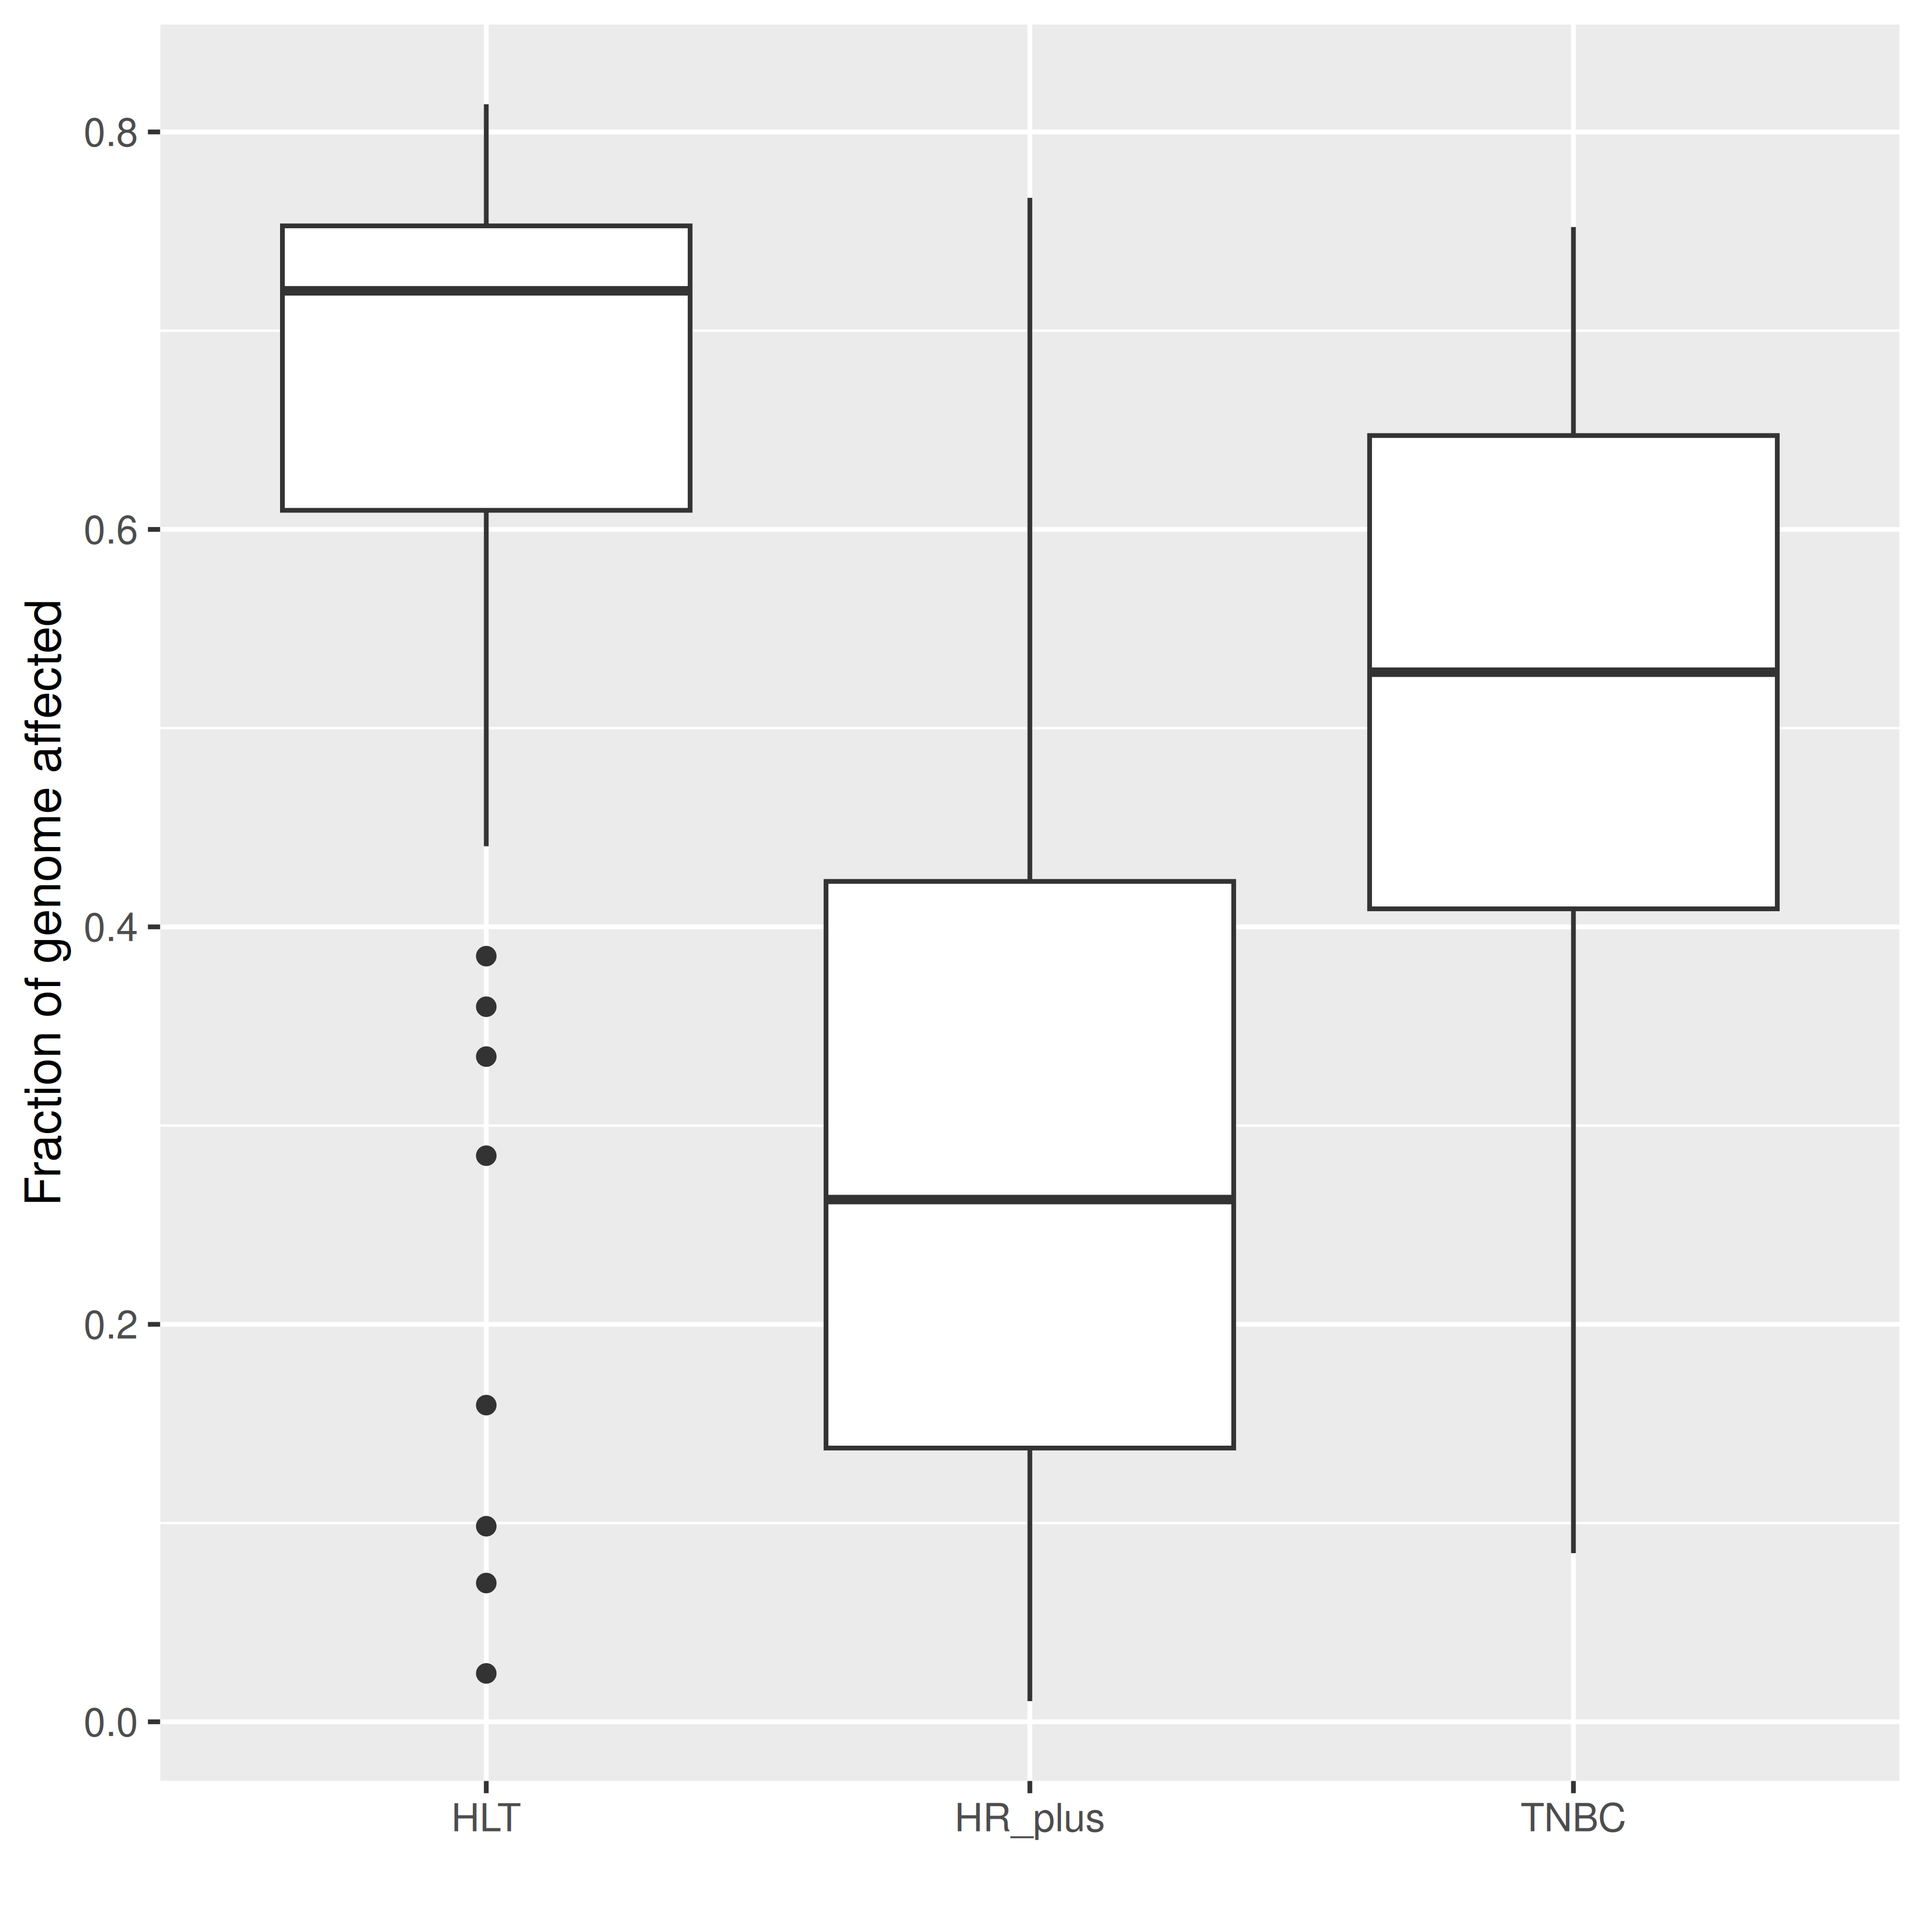
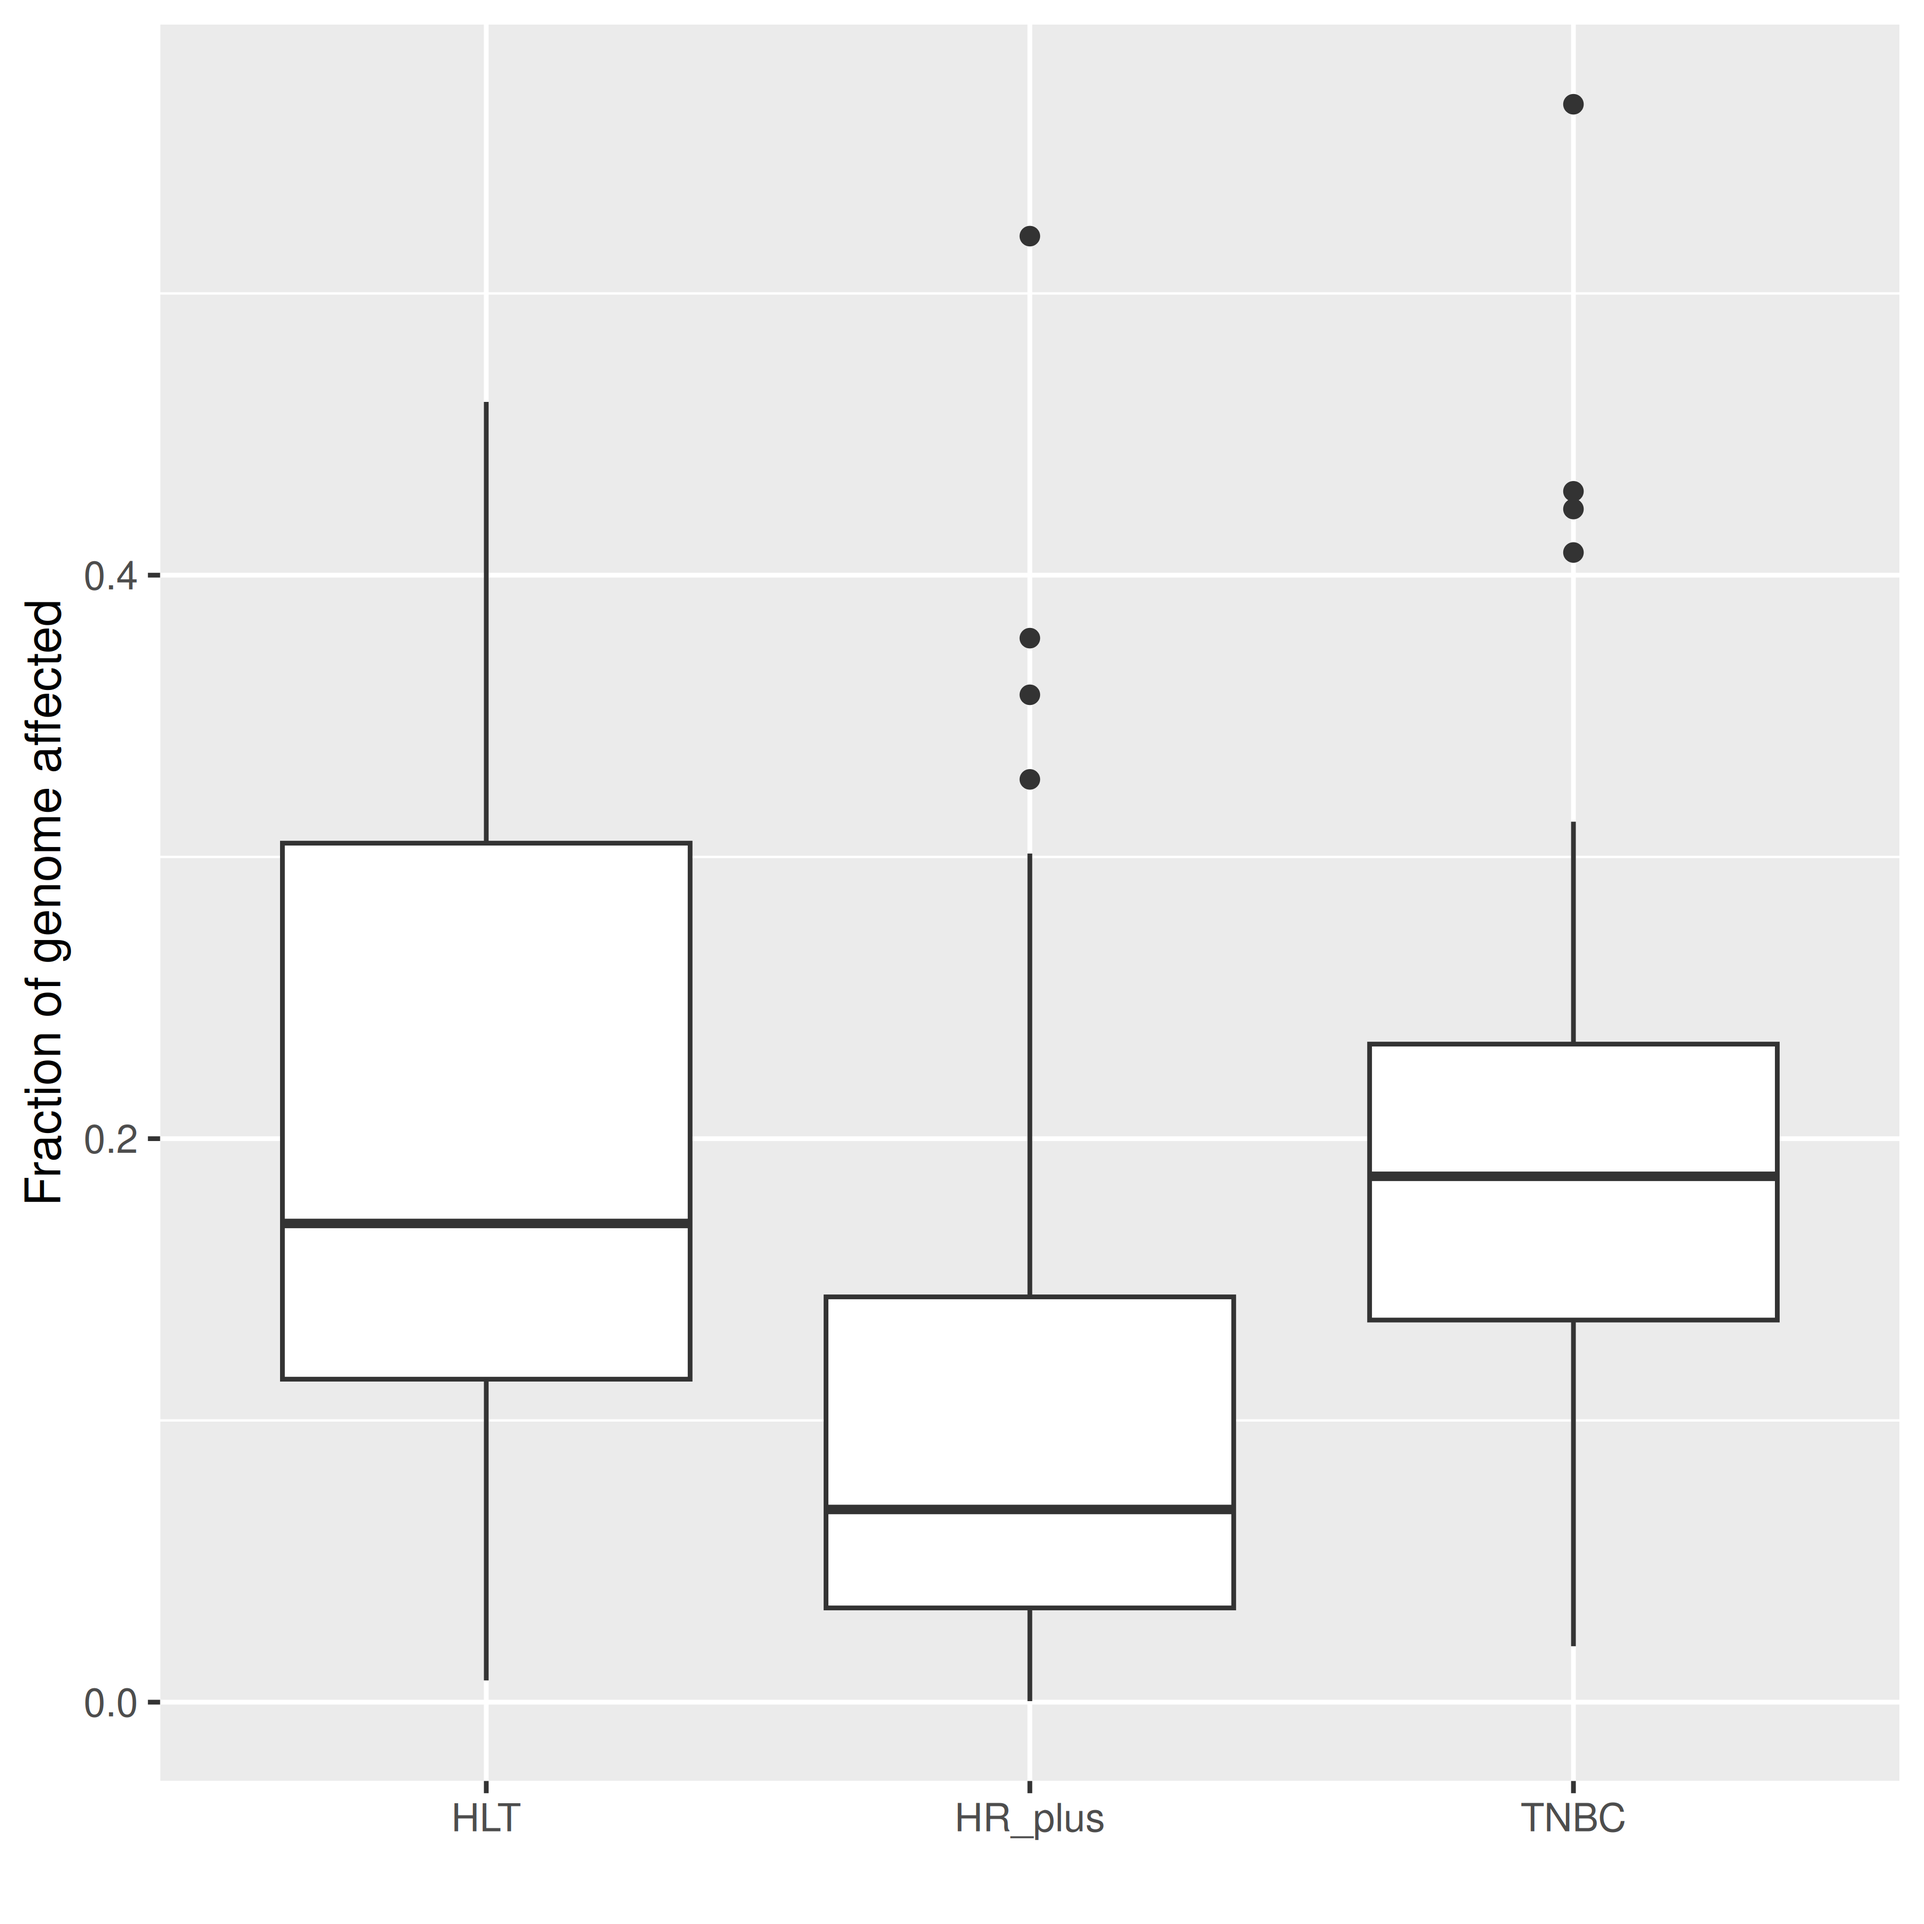
Build site.

diff --git a/docs/00_casper_analysis.html b/docs/00_casper_analysis.html
@@ -385,7 +385,7 @@ div.tocify {
 
 <h1 class="title toc-ignore">Inference of aneuploidy on RNAseq</h1>
 <h4 class="author">Zhan Yinxiu</h4>
-<h4 class="date">05 February, 2025</h4>
+<h4 class="date">06 February, 2025</h4>
 
 </div>
 
@@ -414,7 +414,7 @@ class="glyphicon glyphicon-ok text-success" aria-hidden="true"></span>
 <div class="tab-content">
 <div id="summary" class="tab-pane fade in active">
 <p>
-<strong>Last updated:</strong> 2025-02-05
+<strong>Last updated:</strong> 2025-02-06
 </p>
 <p>
 <strong>Checks:</strong> <span
@@ -545,15 +545,15 @@ project makes it easier to run your code on other machines.</p>
 <div class="panel panel-default">
 <div class="panel-heading">
 <p class="panel-title">
-<a data-toggle="collapse" data-parent="#workflowr-checks" href="#strongRepositoryversionstrongahrefhttpsgithubcomdimadatasciencecasperssmatree018d17140dc971808bd65ca44dbac6c307eeec15targetblank018d171a">
+<a data-toggle="collapse" data-parent="#workflowr-checks" href="#strongRepositoryversionstrongahrefhttpsgithubcomdimadatasciencecasperssmatree1e6b5cd94a6f09830be259f60e4b05390488cdcdtargetblank1e6b5cda">
 <span class="glyphicon glyphicon-ok text-success"
 aria-hidden="true"></span> <strong>Repository version:</strong>
-<a href="https://github.com/dimadatascience/casper_ss_ma/tree/018d17140dc971808bd65ca44dbac6c307eeec15" target="_blank">018d171</a>
+<a href="https://github.com/dimadatascience/casper_ss_ma/tree/1e6b5cd94a6f09830be259f60e4b05390488cdcd" target="_blank">1e6b5cd</a>
 </a>
 </p>
 </div>
 <div
[2 lines of base64/hex data omitted]
 class="panel-collapse collapse">
 <div class="panel-body">
 <p>
@@ -563,7 +563,7 @@ reproducibility.
 </p>
 <p>
 The results in this page were generated with repository version
-<a href="https://github.com/dimadatascience/casper_ss_ma/tree/018d17140dc971808bd65ca44dbac6c307eeec15" target="_blank">018d171</a>.
+<a href="https://github.com/dimadatascience/casper_ss_ma/tree/1e6b5cd94a6f09830be259f60e4b05390488cdcd" target="_blank">1e6b5cd</a>.
 See the <em>Past versions</em> tab to see a history of the changes made
 to the R Markdown and HTML files.
 </p>
@@ -584,9 +584,6 @@ Ignored files:
 
 Untracked files:
     Untracked:  .DS_Store
-
-Unstaged changes:
-    Modified:   .gitignore
 
 </code></pre>
 <p>
@@ -631,6 +628,40 @@ Message
 </tr>
 </thead>
 <tbody>
+<tr>
+<td>
+Rmd
+</td>
+<td>
+<a href="https://github.com/dimadatascience/casper_ss_ma/blob/1e6b5cd94a6f09830be259f60e4b05390488cdcd/analysis/00_casper_analysis.Rmd" target="_blank">1e6b5cd</a>
+</td>
+<td>
+Yinxiu Zhan
+</td>
+<td>
+2025-02-06
+</td>
+<td>
+Remove loh
+</td>
+</tr>
+<tr>
+<td>
+html
+</td>
+<td>
+<a href="https://rawcdn.githack.com/dimadatascience/casper_ss_ma/7f1c96f06b2b3fe9bac3edf79fe864b83e72b4a4/docs/00_casper_analysis.html" target="_blank">7f1c96f</a>
+</td>
+<td>
+Yinxiu Zhan
+</td>
+<td>
+2025-02-05
+</td>
+<td>
+Build site.
+</td>
+</tr>
 <tr>
 <td>
 Rmd
@@ -721,7 +752,83 @@ href="http://hgdownload.cse.ucsc.edu/goldenPath/hg38/database/centromeres.txt.gz
 <p>Below we show the fraction of genome affected by either CNV
 gain/loss/loh</p>
 <p><img src="figure/00_casper_analysis.Rmd/boxplot_comparative_cnv_across_condition-1.png" width="1800" style="display: block; margin: auto;" /></p>
+<p>
+<button type="button" class="btn btn-default btn-xs btn-workflowr btn-workflowr-fig" data-toggle="collapse" data-target="#fig-boxplot_comparative_cnv_across_condition-1">
+Past versions of boxplot_comparative_cnv_across_condition-1.png
+</button>
+</p>
+<div id="fig-boxplot_comparative_cnv_across_condition-1"
+class="collapse">
+<div class="table-responsive">
+<table class="table table-condensed table-hover">
+<thead>
+<tr>
+<th>
+Version
+</th>
+<th>
+Author
+</th>
+<th>
+Date
+</th>
+</tr>
+</thead>
+<tbody>
+<tr>
+<td>
+<a href="https://github.com/dimadatascience/casper_ss_ma/blob/7f1c96f06b2b3fe9bac3edf79fe864b83e72b4a4/docs/figure/00_casper_analysis.Rmd/boxplot_comparative_cnv_across_condition-1.png" target="_blank">7f1c96f</a>
+</td>
+<td>
+Yinxiu Zhan
+</td>
+<td>
+2025-02-05
+</td>
+</tr>
+</tbody>
+</table>
+</div>
+</div>
 <p><img src="figure/00_casper_analysis.Rmd/boxplot_comparative_cnv_across_condition_pertype-1.png" width="1800" style="display: block; margin: auto;" /></p>
+<p>
+<button type="button" class="btn btn-default btn-xs btn-workflowr btn-workflowr-fig" data-toggle="collapse" data-target="#fig-boxplot_comparative_cnv_across_condition_pertype-1">
+Past versions of boxplot_comparative_cnv_across_condition_pertype-1.png
+</button>
+</p>
+<div id="fig-boxplot_comparative_cnv_across_condition_pertype-1"
+class="collapse">
+<div class="table-responsive">
+<table class="table table-condensed table-hover">
+<thead>
+<tr>
+<th>
+Version
+</th>
+<th>
+Author
+</th>
+<th>
+Date
+</th>
+</tr>
+</thead>
+<tbody>
+<tr>
+<td>
+<a href="https://github.com/dimadatascience/casper_ss_ma/blob/7f1c96f06b2b3fe9bac3edf79fe864b83e72b4a4/docs/figure/00_casper_analysis.Rmd/boxplot_comparative_cnv_across_condition_pertype-1.png" target="_blank">7f1c96f</a>
+</td>
+<td>
+Yinxiu Zhan
+</td>
+<td>
+2025-02-05
+</td>
+</tr>
+</tbody>
+</table>
+</div>
+</div>
 <!-- # ```{r qc_2} -->
 <!-- # cd82_expr = t(data[rownames(data) == annotation$Gene[annotation$GeneSymbol=="CD82"], ]) -->
 <!-- # merged  = merge(cd82_expr, control, by=0) -->

diff --git a/docs/index.html b/docs/index.html
@@ -318,7 +318,7 @@ class="glyphicon glyphicon-ok text-success" aria-hidden="true"></span>
 <div class="tab-content">
 <div id="summary" class="tab-pane fade in active">
 <p>
-<strong>Last updated:</strong> 2025-02-05
+<strong>Last updated:</strong> 2025-02-06
 </p>
 <p>
 <strong>Checks:</strong> <span
@@ -365,15 +365,15 @@ results.</p>
 <div class="panel panel-default">
 <div class="panel-heading">
 <p class="panel-title">
-<a data-toggle="collapse" data-parent="#workflowr-checks" href="#strongRepositoryversionstrongahrefhttpsgithubcomdimadatasciencecasperssmatree018d17140dc971808bd65ca44dbac6c307eeec15targetblank018d171a">
+<a data-toggle="collapse" data-parent="#workflowr-checks" href="#strongRepositoryversionstrongahrefhttpsgithubcomdimadatasciencecasperssmatree1e6b5cd94a6f09830be259f60e4b05390488cdcdtargetblank1e6b5cda">
 <span class="glyphicon glyphicon-ok text-success"
 aria-hidden="true"></span> <strong>Repository version:</strong>
-<a href="https://github.com/dimadatascience/casper_ss_ma/tree/018d17140dc971808bd65ca44dbac6c307eeec15" target="_blank">018d171</a>
+<a href="https://github.com/dimadatascience/casper_ss_ma/tree/1e6b5cd94a6f09830be259f60e4b05390488cdcd" target="_blank">1e6b5cd</a>
 </a>
 </p>
 </div>
 <div
[2 lines of base64/hex data omitted]
 class="panel-collapse collapse">
 <div class="panel-body">
 <p>
@@ -383,7 +383,7 @@ reproducibility.
 </p>
 <p>
 The results in this page were generated with repository version
-<a href="https://github.com/dimadatascience/casper_ss_ma/tree/018d17140dc971808bd65ca44dbac6c307eeec15" target="_blank">018d171</a>.
+<a href="https://github.com/dimadatascience/casper_ss_ma/tree/1e6b5cd94a6f09830be259f60e4b05390488cdcd" target="_blank">1e6b5cd</a>.
 See the <em>Past versions</em> tab to see a history of the changes made
 to the R Markdown and HTML files.
 </p>
@@ -404,9 +404,6 @@ Ignored files:
 
 Untracked files:
     Untracked:  .DS_Store
-
-Unstaged changes:
-    Modified:   .gitignore
 
 </code></pre>
 <p>
@@ -450,6 +447,23 @@ Message
 </tr>
 </thead>
 <tbody>
+<tr>
+<td>
+html
+</td>
+<td>
+<a href="https://rawcdn.githack.com/dimadatascience/casper_ss_ma/7f1c96f06b2b3fe9bac3edf79fe864b83e72b4a4/docs/index.html" target="_blank">7f1c96f</a>
+</td>
+<td>
+Yinxiu Zhan
+</td>
+<td>
+2025-02-05
+</td>
+<td>
+Build site.
+</td>
+</tr>
 <tr>
 <td>
 Rmd
